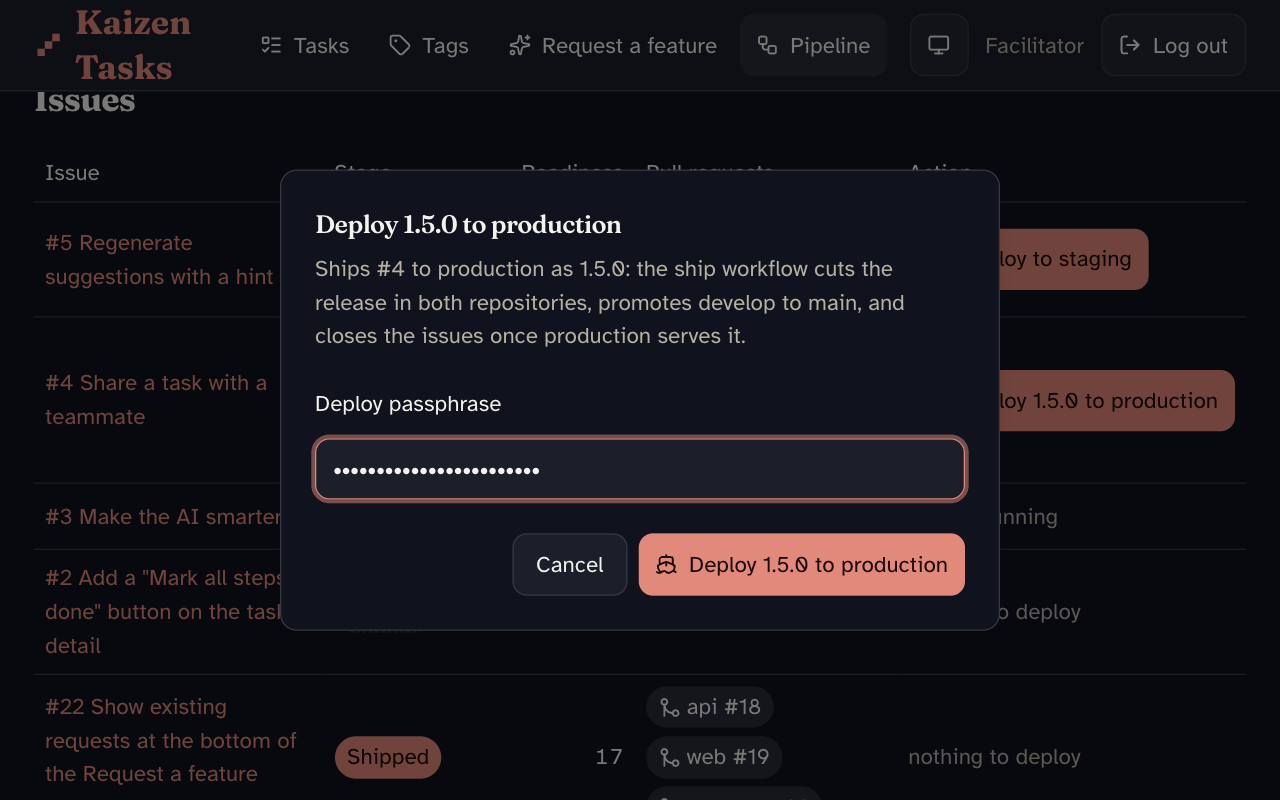
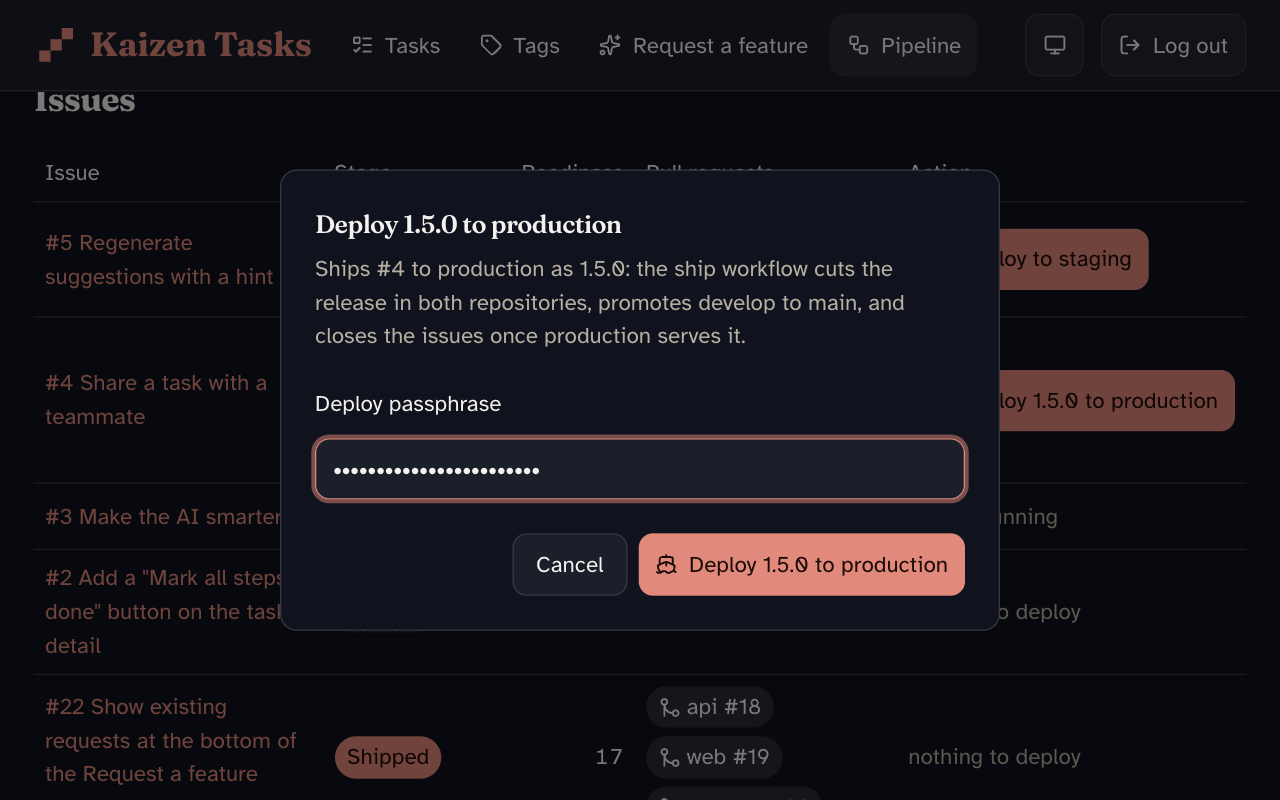
fix: header stays one row at 1024px with four nav links
The fourth nav link made the "Kaizen Tasks" wordmark wrap to two lines at the projector's
1024 CSS px. The wordmark is whitespace-nowrap and the display name shows from xl up, the
breakpoint the theme control's word already uses; "Request a feature" keeps its label and
every accessible name is unchanged. The screenshot runner and the facilitator helper proved
a session by the visible display name, so they now read the header's text. The four pipeline
scenarios are recaptured in both themes.

Changed region(s): [[0.0312, 0.0, 0.75, 0.125], [0.7812, 0.0312, 0.8438, 0.0625]]

diff --git a/src/app/layout.tsx b/src/app/layout.tsx
@@ -13,7 +13,9 @@ import { ThemeToggle } from "@/features/theme/ThemeToggle";
 
 /** The signed-in frame: brand, primary nav, theme control, who is signed in, log out, and the
  *  footer. Renders the matched route in `main`, or `children` when a route mounts the shell itself
- *  (the catch-all, ADR 0009). */
+ *  (the catch-all, ADR 0009). The header is one row at the projector's 1024px with four nav
+ *  labels: the wordmark never wraps, and the display name (like the theme's word) shows from `xl`
+ *  up, where there is room for it beside "Log out". */
 export function AppShell({ children }: { children?: ReactNode }) {
   const { user } = useSession();
   const logout = useLogout();
@@ -23,7 +25,7 @@ export function AppShell({ children }: { children?: ReactNode }) {
         <div className="mx-auto flex h-16 w-full max-w-5xl items-center gap-4 px-6">
           <NavLink to="/tasks" className="flex items-center gap-2 text-primary" data-nav>
             <KaizenMark />
-            <span className="font-display text-2xl font-bold">Kaizen Tasks</span>
+            <span className="font-display text-2xl font-bold whitespace-nowrap">Kaizen Tasks</span>
           </NavLink>
           <nav aria-label="Primary" className="flex items-center gap-1">
             <NavButton to="/tasks" icon={ListTodo}>
@@ -37,7 +39,7 @@ export function AppShell({ children }: { children?: ReactNode }) {
           </nav>
           <div className="ml-auto flex items-center gap-3">
             <ThemeToggle />
-            <span className="max-w-[12ch] truncate text-base text-muted-foreground">
+            <span className="hidden max-w-[12ch] truncate text-base text-muted-foreground xl:inline">
               {user?.displayName}
             </span>
             <Button variant="outline" onClick={() => logout.mutate()} disabled={logout.isPending}>

diff --git a/CHANGELOG.md b/CHANGELOG.md
@@ -8,12 +8,13 @@ The format is based on [Keep a Changelog](https://keepachangelog.com/en/1.1.0/),
 
 ### Added
 
-- `/pipeline`, the workshop's control room, linked from the header as "Pipeline" while the API's health reports `features.pipeline: true`: the flow diagram, the two environment cards, the issues table with one action per row and the deploy passphrase dialog, read from `GET /pipeline` (polled every ten seconds while open) and driven through `POST /pipeline/issues/{number}/deploy-staging`, `POST /pipeline/ship` and `POST /pipeline/ship/retry` (contract pulled from kaizen-tasks-api #21, ADR 0010). Loading, error and empty states are `Skeleton`, `Alert` and `Empty`; `ApiError.forbiddenReason()` narrows the contract's new `ForbiddenDetails` for the dialog's "Wrong passphrase" error. Screenshot scenarios `pipeline` (live, as a viewer), `pipeline-facilitator` and `pipeline-dialog` (the facilitator account, rows in flight from `scripts/screenshots/shared/pipeline-snapshot.mjs` unless `PIPELINE_LIVE=1`).
+- `/pipeline`, the workshop's control room, linked from the header as "Pipeline" while the API's health reports `features.pipeline: true`: the flow diagram, the two environment cards, the issues table with one action per row and the deploy passphrase dialog, read from `GET /pipeline` (polled every ten seconds while open) and driven through `POST /pipeline/issues/{number}/deploy-staging`, `POST /pipeline/ship` and `POST /pipeline/ship/retry` (contract pulled from kaizen-tasks-api #21, ADR 0010). Loading, error and empty states are `Skeleton`, `Alert` and `Empty`; `ApiError.forbiddenReason()` narrows the contract's new `ForbiddenDetails` for the dialog's "Wrong passphrase" error. Screenshot scenarios `pipeline` (live, as a viewer), `pipeline-facilitator` and `pipeline-dialog` (the facilitator account, rows in flight from `scripts/screenshots/shared/pipeline-snapshot.mjs` unless `PIPELINE_LIVE=1`). Review round: the dialog reads the live snapshot, so once a poll shows a ship started, the caller can no longer deploy, the snapshot is stale or the row moved on, the verb is disabled, an `Alert` says why and no submit (click or Enter) can send; Escape is ignored while a request is in flight, so the API's answer is never lost; the retry confirmation names the run's whole recorded issue set ("Retries the failed ship of 1.4.1, which covers #22 and #23"); a health check that fails counts the pipeline as unavailable instead of leaving the page on its skeletons.
 - The shadcn primitives the UI rework composes from, added with the CLI (`npx shadcn@latest add`): `alert`, `empty`, `spinner`, `skeleton`, `progress`, `table`, `collapsible`, `radio-group`, `scroll-area` and `field` under `src/components/ui/`, listed in `docs/ui-conventions.md`. `Badge` moves its base scale to `text-base` with `size-4` icons, so every chip in the app clears the projector's 18px floor with no call-site size props.
 
 ### Changed
 
-- `scripts/product-map.mjs` keeps `docs/product-map.md` under its 12 KB budget with four more routes: the endpoints table drops its Tag column (the tag repeats the path's first segment) and cuts a summary at 50 characters, and the `[Unreleased]` section is capped at 1,000 characters (ADR 0007: growth cuts what the map keeps).
+- `scripts/product-map.mjs` keeps `docs/product-map.md` under its 12 KB budget with four more routes: the endpoints table drops its Tag column (the tag repeats the path's first segment), sorts by path and cuts a summary at 40 characters, each released version keeps one bullet (was two), and the `[Unreleased]` section is capped at 1,000 characters (ADR 0007: growth cuts what the map keeps).
+- The header stays one row at the projector's 1024px with four nav links: the "Kaizen Tasks" wordmark never wraps, and the display name shows from `xl` up, the breakpoint the theme control's word already uses. Every accessible name is unchanged. `scripts/screenshot.mjs` and the facilitator helper prove a session by the account's name in the header's text rather than a visible element, since the runner's viewport is narrower than `xl`.
 - The app shell on shadcn (ui-rework, shell): the primary nav links are `NavButton`s (`src/components/nav-button.tsx`), a `NavLink` in Button clothes with an icon and the current screen as the secondary variant; the theme control is a `dropdown-menu` whose trigger shows the current choice as its icon (with its word from `xl` up, where the header has room) and keeps the accessible name "Theme"; the display name truncates at twelve characters; the footer's API segment is a `Badge`, outline when the versions match and destructive with a visible "web and API versions differ" note when they do not; the 404 is an `Empty` with a "Go to your tasks" button, shown inside the shell for a signed-in user and in a bare frame with the footer otherwise, decided by one catch-all route (ADR 0009). Shared pieces: `Field` wraps the shadcn Field, keeps the hint beside the error and owns `aria-describedby`; `InlineText` is a ghost `Button` with a pencil instead of a hover title and edits in `Input`/`Textarea` at the size of the text it replaces, at every breakpoint; `TagChip` is an outline `Badge` around the exported `TagSwatch`, its remove control a square `Button`. Screenshot scenario `theme-open` replaces `theme-focused`, and the `add-frontend-feature` page template starts from `Skeleton`, `Alert`, `Empty` and `flex gap`.
 - The auth screens on shadcn (ui-rework, auth): `/login` and `/register` are one `Card` each, centred in the viewport (`CardHeader` with the wordmark, the h1 as a real heading inside `CardTitle` so "Log in" and "Create your account" keep their role, and a one-line description; `CardContent` with the form in a `FieldGroup`; `CardFooter` with the cross link as a link `Button`). An error that belongs to no field is a destructive `Alert` with an icon and a title ("Could not log in", "Could not create your account") above the submit, never mounted beside a field error; the submit carries a `LogIn`/`UserPlus` icon that becomes a `Spinner` while pending, and the email field is focused on arrival. The pages spell no `aria-describedby` themselves: the `Field` wrapper wires the hint and the error, so "At least 8 characters" stays on screen beside a password error. The restoring screen shows a `Spinner` beside "Restoring your session" (status "Session" unchanged). Screenshot scenarios `login` and `register` sign out inside `ready()` (the runner arrives signed in) and set the theme cache to `system` so the emulated colour scheme decides the theme. Review round: `Alert` moves its base scale to `text-base` (root and description), the way `Badge` did, so every callout clears the 18px floor with no call-site override; the 44px hit-area rule in `globals.css` now names `a[data-slot="button"]`, so a `Button asChild` around a `Link` (the auth cross links, the 404's "Go to your tasks") gets the same target as a button. `tests/projector-rules.test.ts` pins both.
 - The task detail on shadcn (ui-rework, tasks-detail): each step is a four-column grid row (drag handle as a ghost icon `Button`, done, title, actions) so the action column never wraps at the projector's width; Accept keeps its name with a check icon, Edit and Dismiss sit in a row `dropdown-menu` behind "More actions for <step>", an accepted AI step shows a secondary "AI" `Badge` instead of a lone icon, and the "Suggested by AI" pill is a secondary `Button` anchoring the unchanged rationale popover. The status select is a group of three pressed `Button`s (To do / In progress / Done) with icons; "Add tag" opens a `dropdown-menu` named "Available tags" whose items carry the shared `TagSwatch`; "Suggested tags" is an outline `Badge` beside full-height chips. The three assistant states and the suggestions bar share one `Alert` row shape (`components/banner.ts`): thinking and skipped are status regions named "Assistant", failed is the destructive alert with "Breakdown failed" as its title and the API message as its description, the bar is a group; one outline Retry/Regenerate variant with a `Spinner` while pending. Loading is a `Skeleton` stack named "Loading task", a missing task is a destructive `Alert` with an outline "Back to tasks" button, the empty step list is an `Empty`, dismissed steps are a `Collapsible` with a "Dismissed" chip and an iconed Undo, "All tasks" is a ghost button, and the page stacks with `flex gap`. Screenshot scenarios `task-detail`, `task-detail-steps` and `task-detail-skipped` share `scripts/screenshots/lib/task.mjs`, which creates the task through the create bar inside `act` because the runner asserts the static route first.
